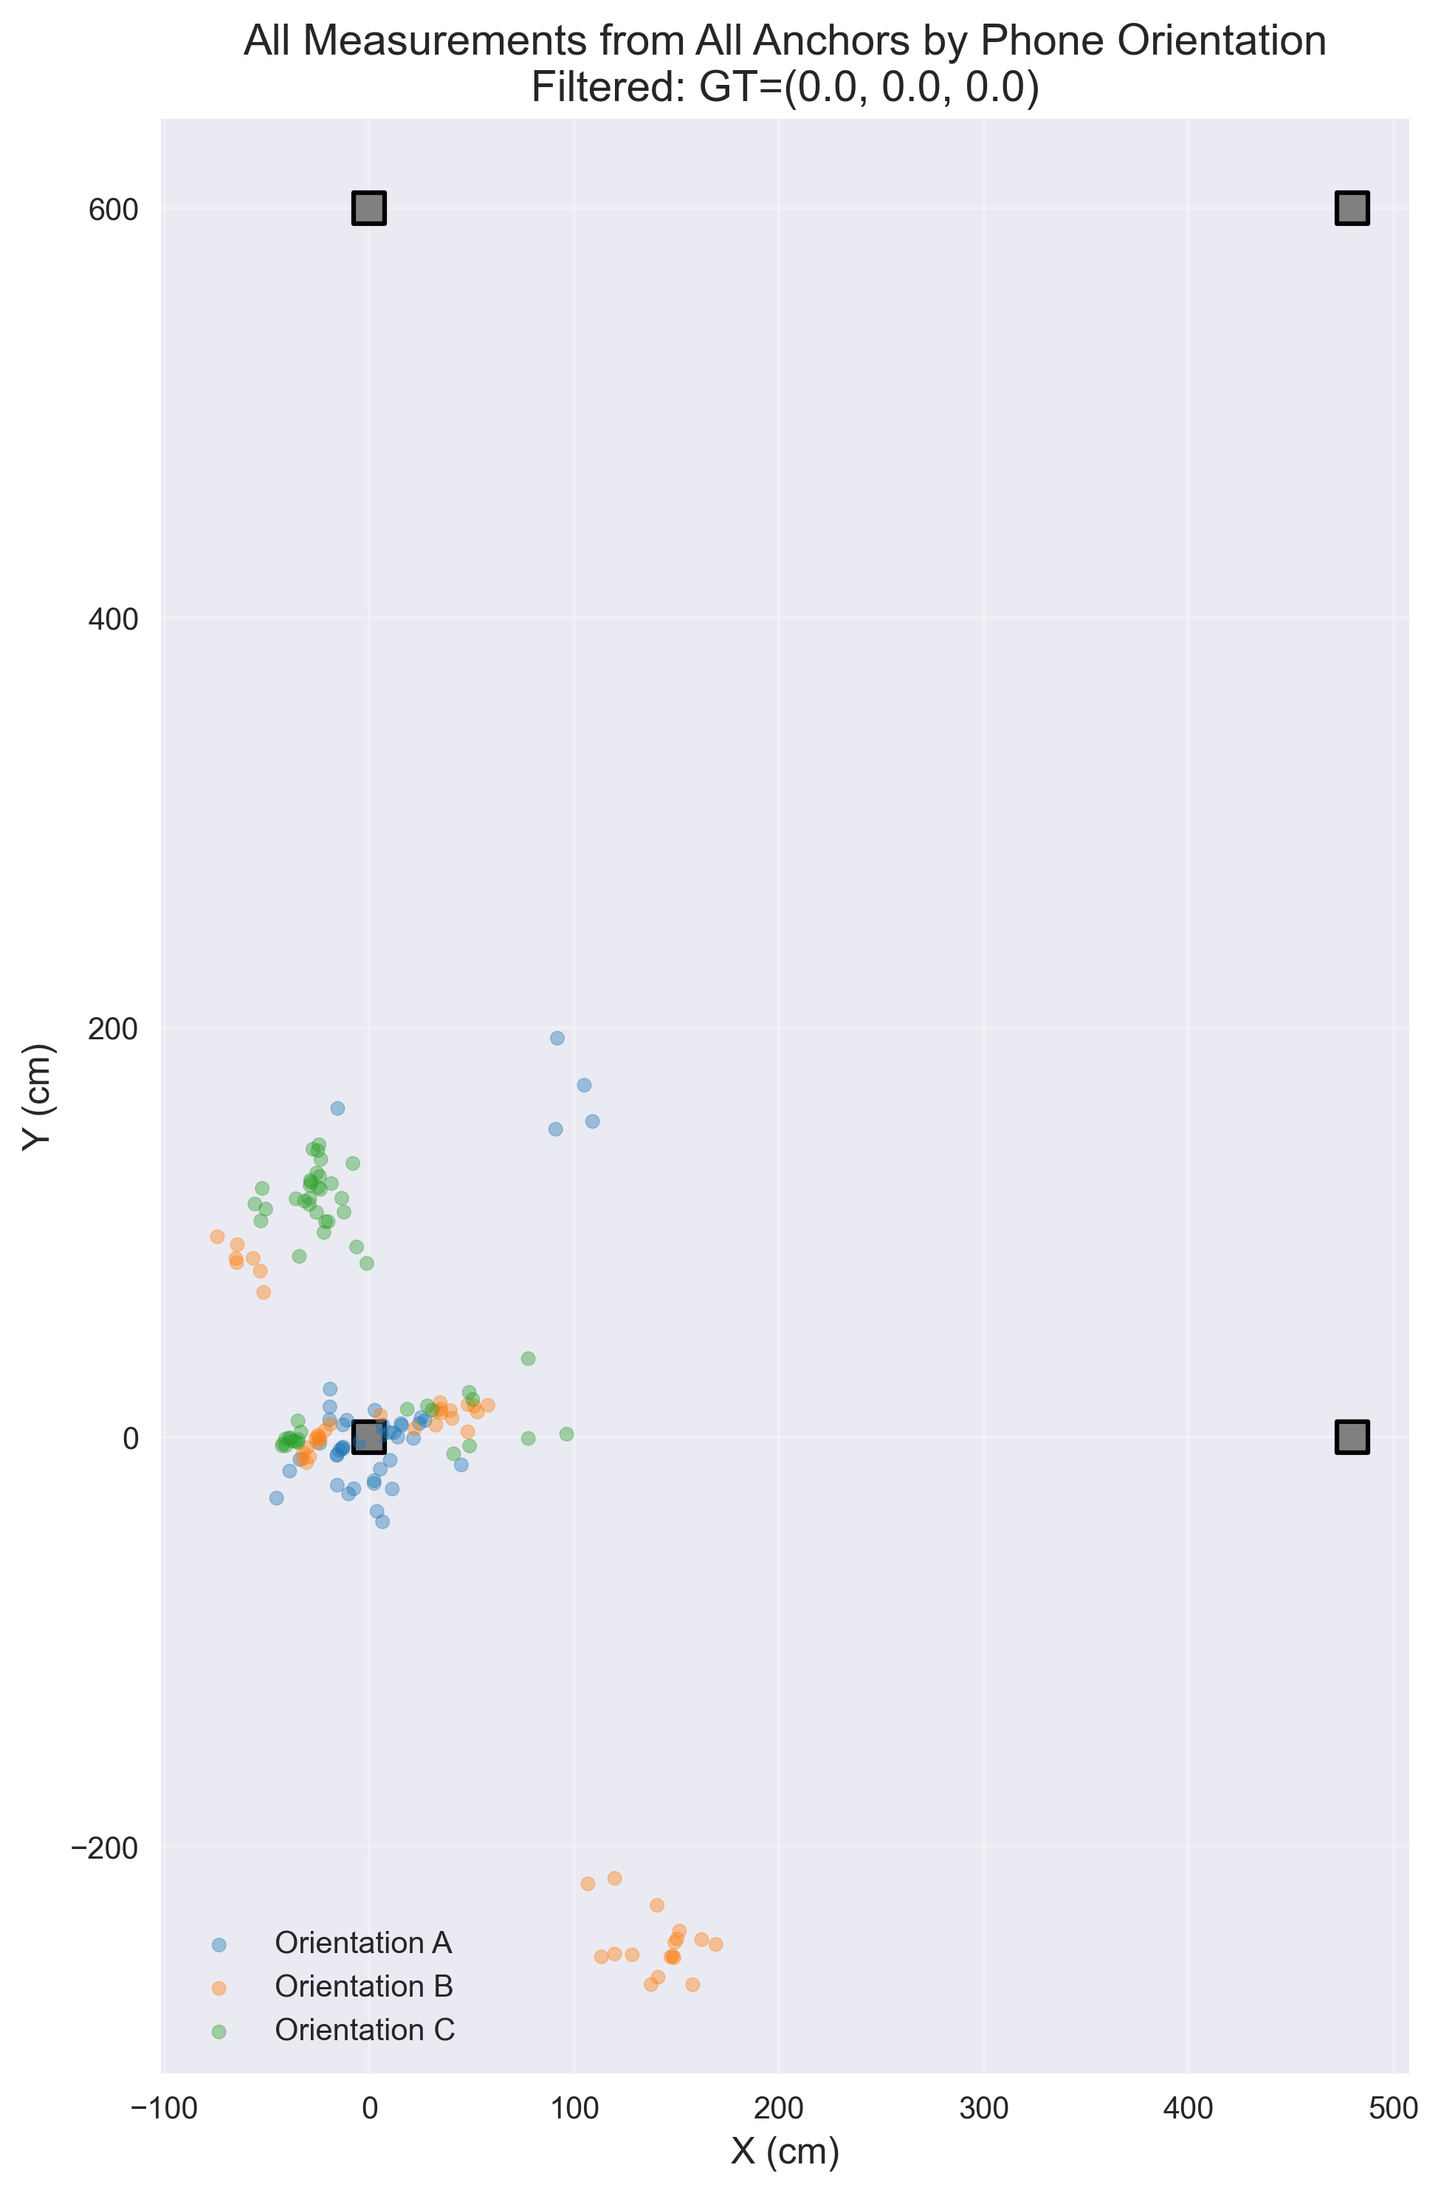
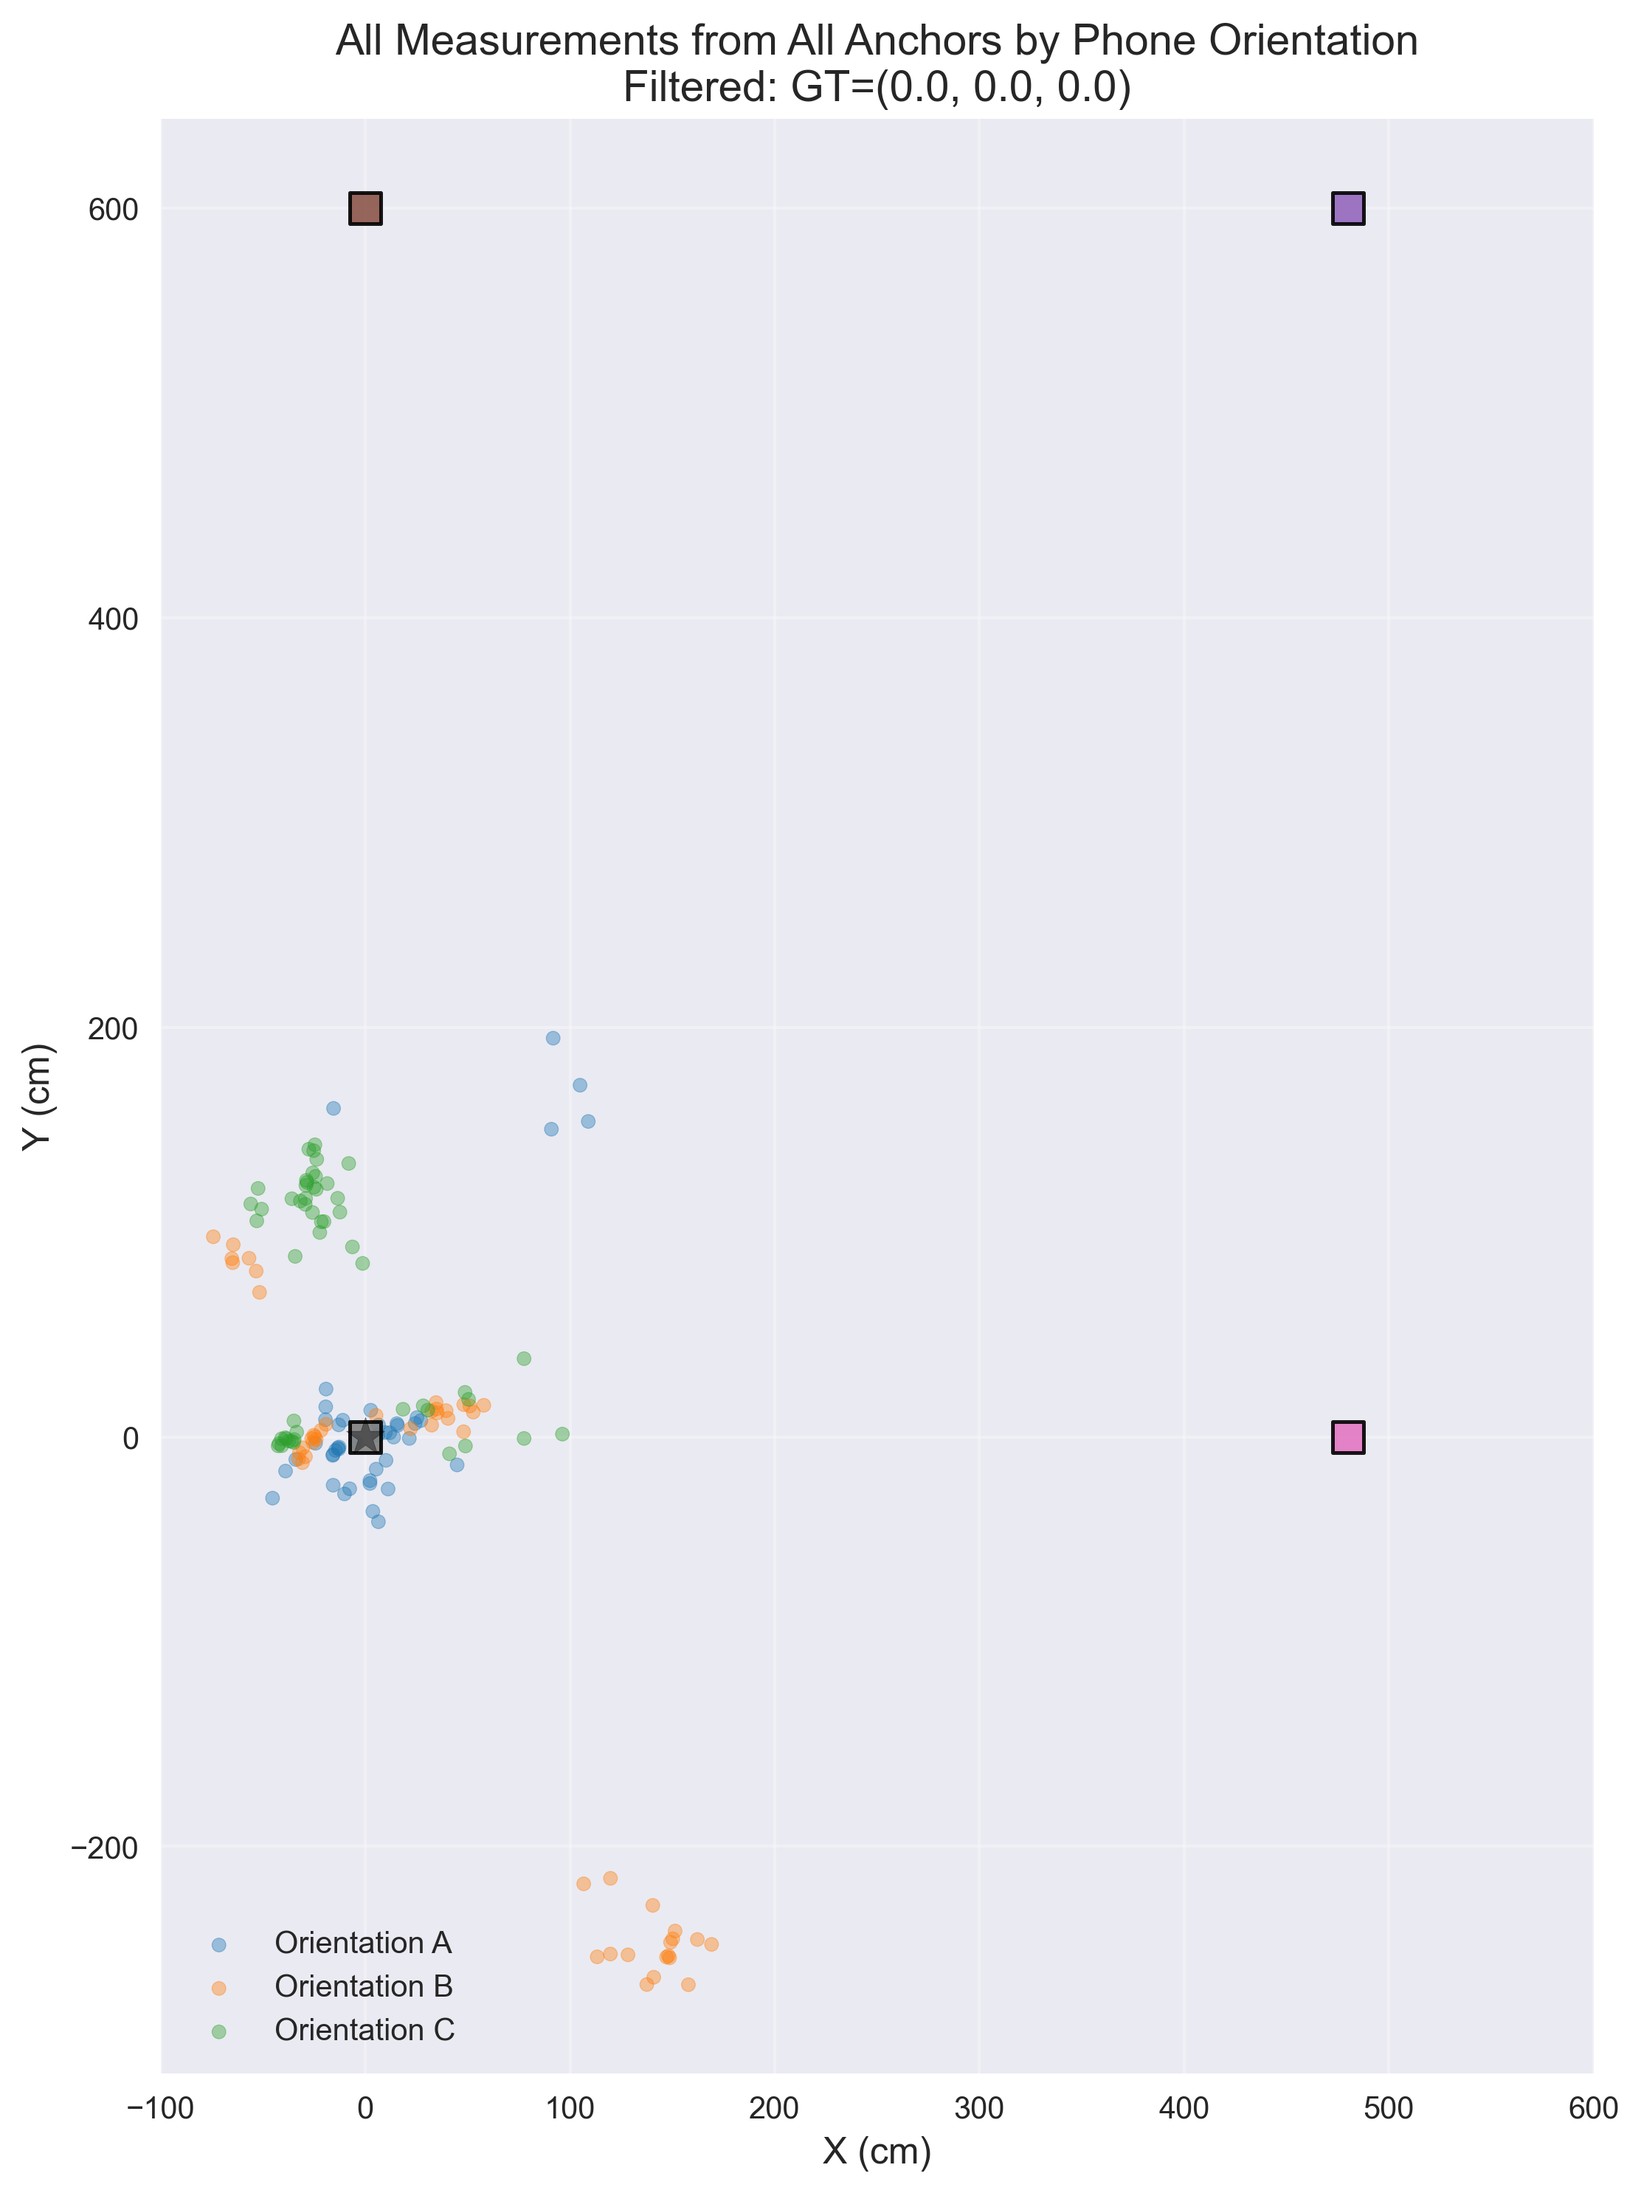
orientation plots: use distinct colors for anchors vs dqta acq plots by coord. added a circle around specified anchor

diff --git a/Data_collection/Data/data_processing_scripts/plot_single_anchor_measurements_by_orientation.py b/Data_collection/Data/data_processing_scripts/plot_single_anchor_measurements_by_orientation.py
@@ -24,6 +24,7 @@ in \Data_collection\Data:
 import pandas as pd
 import numpy as np
 import matplotlib.pyplot as plt
+from matplotlib.patches import Circle
 import json
 import sys
 from typing import Dict, List, Tuple, Optional
@@ -221,34 +222,45 @@ def create_visualizations_by_orientation(df: pd.DataFrame, anchor_id: Optional[i
     unique_orientations = sorted(orientation_groups.keys())
     print(f"Found {len(unique_orientations)} unique orientations: {unique_orientations}")
     
-    # Use a colormap to assign colors to orientations
+    # Use tab10 colormap to assign colors to orientations
     try:
+        # Use the recommended approach for newer matplotlib versions
+        cmap = plt.colormaps['tab10']
+    except (AttributeError, KeyError):
+        # Fallback for older matplotlib versions
         import matplotlib.cm as cm
         cmap = cm.get_cmap('tab10')
-    except AttributeError:
-        # For newer matplotlib versions
-        cmap = plt.colormaps['tab10']
     
     orientation_colors = {}
     for idx, orient in enumerate(unique_orientations):
         # Normalize index to 0-1 range for colormap (using modulo to cycle through colors)
         orientation_colors[orient] = cmap((idx % 10) / 9.0)
     
+    # Anchor colors by tab10 indices
+    anchor_color_indices = [4, 5, 6, 7]  # purple, brown, pink, grey
+    anchor_colors = [cmap(idx / 9.0) for idx in anchor_color_indices]
+    
     # Create a combined plot showing all orientations together (same style as position-based plot)
     fig, ax = plt.subplots(figsize=(12, 10))
     
-    # Plot all anchor positions (grey and small)
-    # Note: These are the 4 anchor positions, shown as grey squares for reference
+    # Plot all anchor positions with distinct colors
+    # Note: These are the 4 fixed anchor positions, shown as colored squares for reference
     # They are NOT measurement dots - they are the fixed anchor locations
-    # zorder=1 ensures they appear below the measurement dots (zorder=3)
     for aid, anchor_pos in ANCHOR_POSITIONS.items():
-        ax.scatter([anchor_pos[0]], [anchor_pos[1]], c='grey', marker='s', s=100, 
-                  zorder=1, edgecolors='black', linewidths=1.5)
+        ax.scatter([anchor_pos[0]], [anchor_pos[1]], c=anchor_colors[aid], marker='s', s=100, 
+                  zorder=5, edgecolors='black', linewidths=1.2, alpha=0.9)
     
-    # Plot all ground truth positions as grey crosses (once, not per orientation)
+    # Circle the specified anchor with a thin red circle (if anchor_id is specified)
+    if anchor_id is not None:
+        specified_anchor_pos = ANCHOR_POSITIONS[anchor_id]
+        circle = Circle((specified_anchor_pos[0], specified_anchor_pos[1]), radius=40, 
+                       fill=False, edgecolor='red', linewidth=1.0, zorder=8)
+        ax.add_patch(circle)
+    
+    # Plot all ground truth positions as black stars (once, not per orientation)
     for gt_x, gt_y in all_gt_positions:
-        ax.scatter([gt_x], [gt_y], c='grey', marker='+', s=50, 
-                  zorder=6, linewidths=2)
+        ax.scatter([gt_x], [gt_y], c='black', marker='*', s=170, 
+                  zorder=6, edgecolors='black', linewidths=0.2, alpha=0.4)
     
     # Plot all measurements grouped by orientation
     for orient in unique_orientations:
@@ -283,6 +295,7 @@ def create_visualizations_by_orientation(df: pd.DataFrame, anchor_id: Optional[i
     ax.set_title(title, fontsize=14)
     ax.grid(True, alpha=0.3)
     ax.set_aspect('equal', adjustable='box')
+    ax.set_xlim(-100, 600)
     
     # Add legend
     ax.legend(loc='best', fontsize=10)
